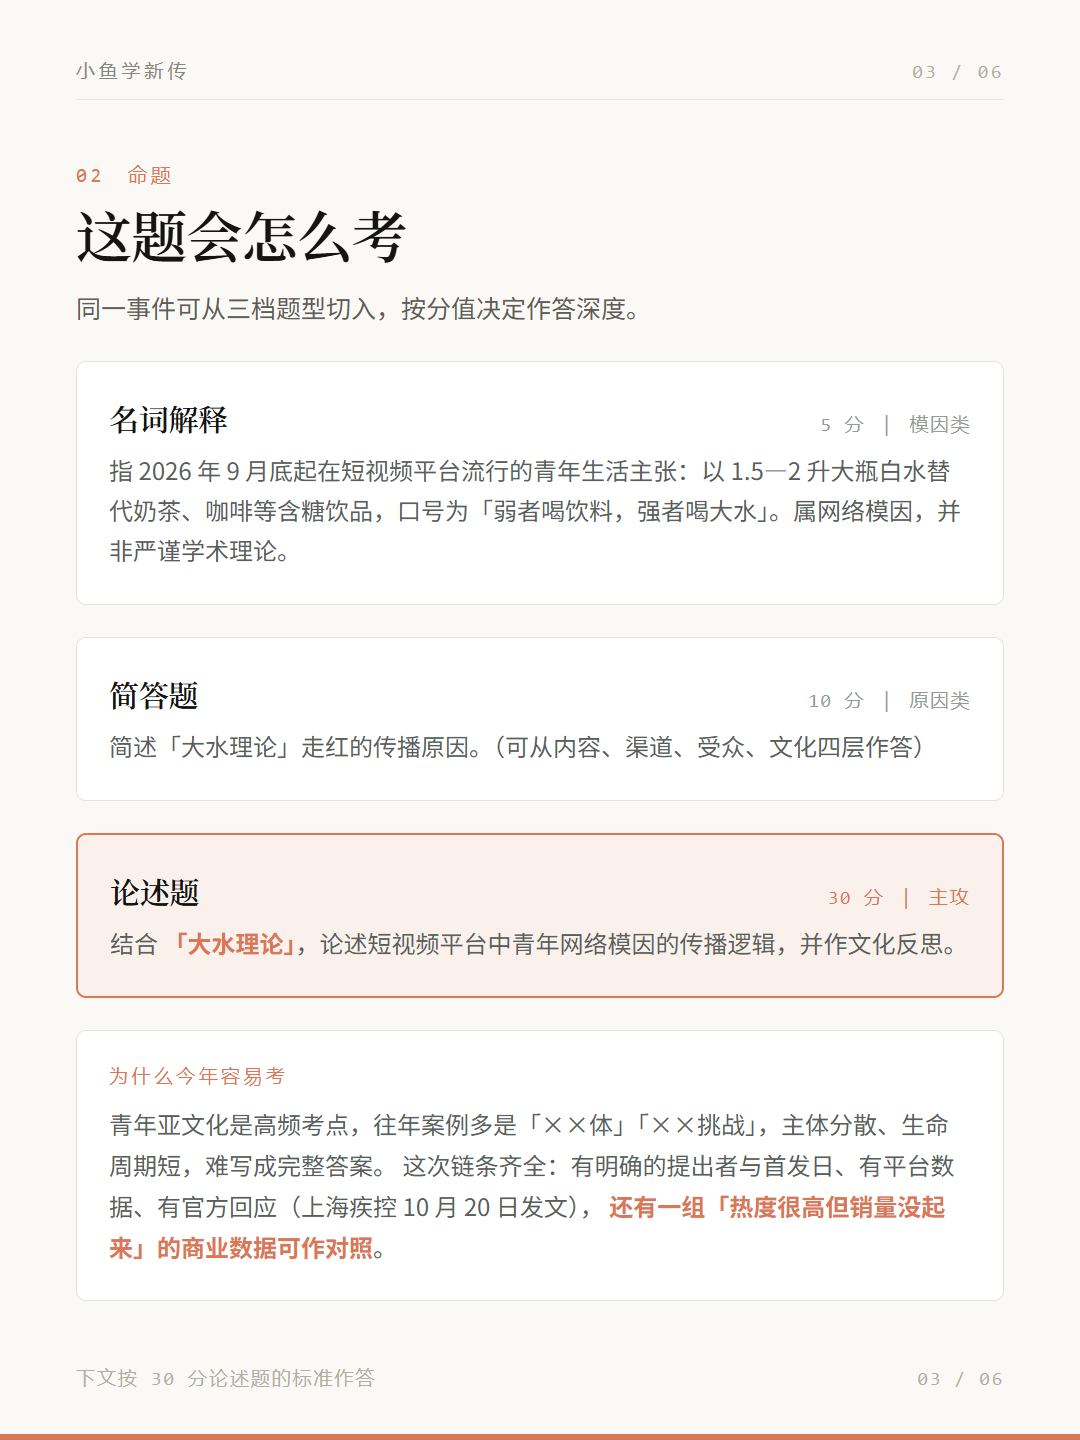
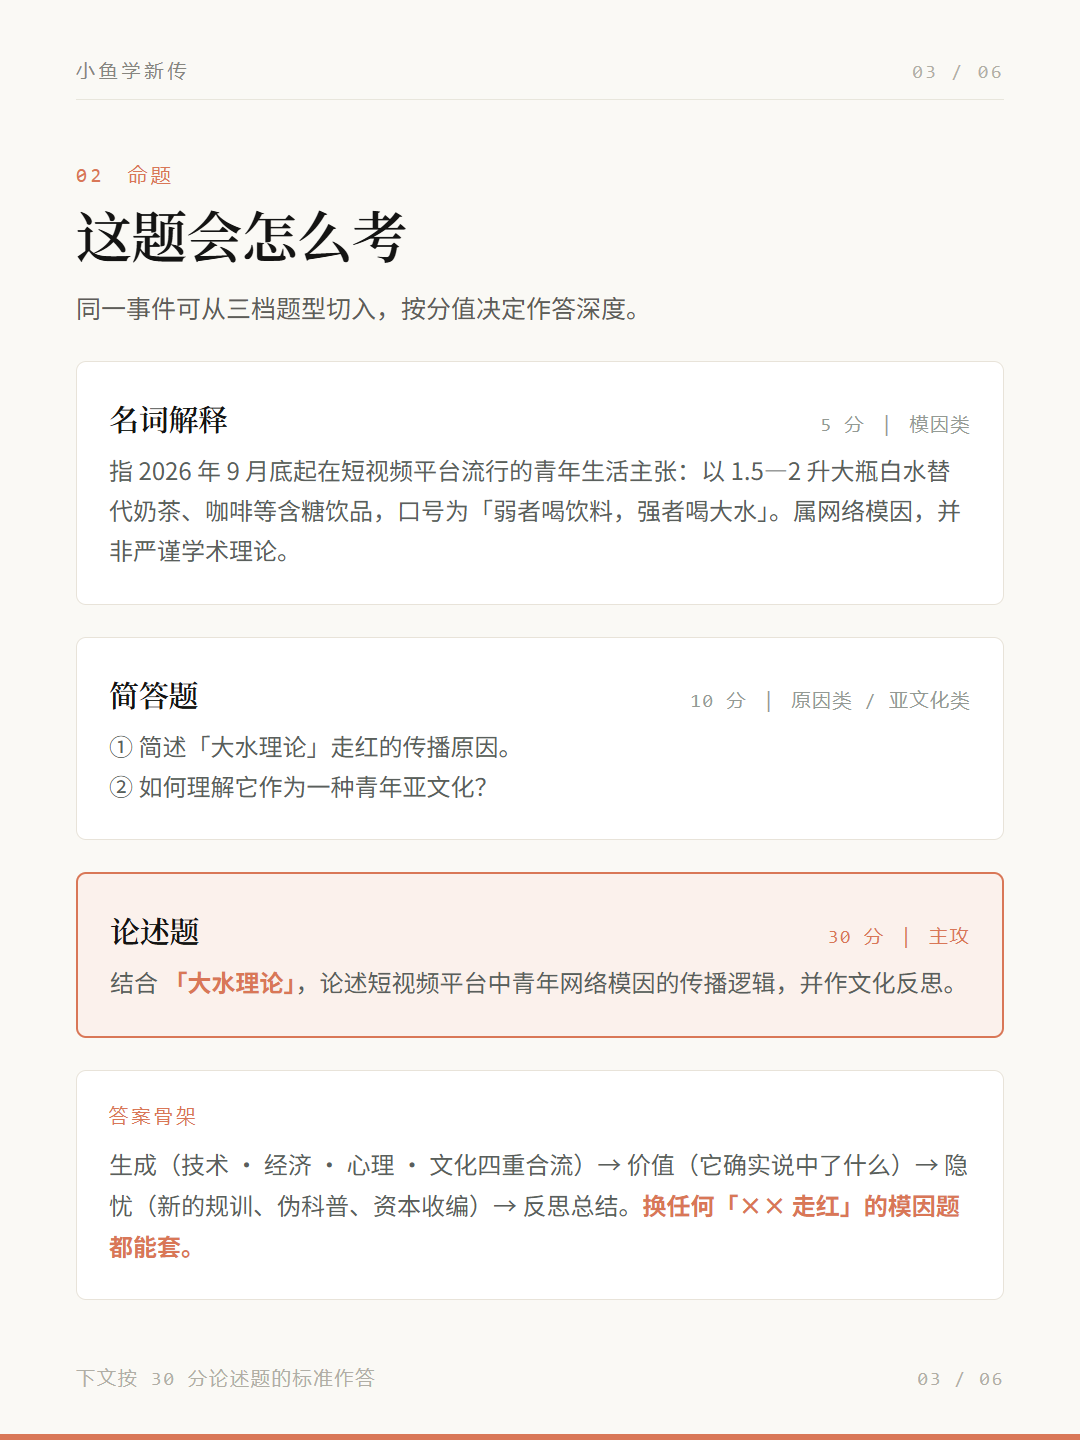
fix(kb): 37 大水理论答案主体改为四段骨架（生成/价值/隐忧/反思）
- P4-P6 重写：按用户给定文本的四段结构作答，删掉三个分论点的自我说明式话术
- P3 面板改为「答案骨架」，P6 速查表增至 5 行
- 笔记「新传视角解析」整节替换为「答题主体（四段骨架）」，争议焦点压缩为两处辨析
- 小红书文案与文案.md 对齐；六张图重渲替换，md5 核验一致
- 溢出余量 46/41/40/55/71/25，禁用句式 0、正文破折号 0

diff --git a/kb/新传热点事件解读/README.md b/kb/新传热点事件解读/README.md
@@ -48,7 +48,7 @@
 | 34 | [标价1980的镜片，批发价30](34-近视防控镜片.md) | 2026-10-18 | 柠檬市场（阿克洛夫）/ 框架理论（恩特曼） | ×6 |
 | 35 | [星巴克「消费入座」怎么考](35-星巴克消费入座.md) | 2026-10-22 | **答题导向体例**：第三空间（奥登伯格）/ 空间生产（列斐伏尔）/ 符号消费（鲍德里亚）/ 危机传播（库姆斯 SCCT） | ×6 |
 | 36 | [China Haul 为什么火了：空箱来，满箱走](36-ChinaHaul.md) | 2026-10-23 | **答题导向体例 02**：符号消费（鲍德里亚）/ 框架理论（恩特曼）/ 文化折扣（霍斯金斯）/ 参与式文化（詹金斯）/ 可信度（霍夫兰） | ×6 |
-| 37 | [大水理论（喝大水时代）怎么考：一瓶白水怎样被重新命名](37-大水理论.md) | 2026-09-30 | **答题导向体例 03**：模因理论（道金斯）/ 符号消费与再编码（鲍德里亚）/ 补偿性控制 / 亚文化与收编（伯明翰学派·赫伯迪格）/ 参与式文化（詹金斯） | ×6 |
+| 37 | [大水理论（喝大水时代）怎么考：一瓶白水怎样被重新命名](37-大水理论.md) | 2026-09-30 | **答题导向体例 03**：四段骨架（生成 → 价值 → 隐忧 → 反思）。生成按「技术 · 经济 · 心理 · 文化」四点：平台可供性（道金斯）/ 符号消费与再编码（鲍德里亚）/ 补偿性控制 / 戏仿式温和抵抗（伯明翰学派） | ×6 |
 
 > 本仓库从编号 12 起收录。更早的编号素材未归档入库。
 > **行文风格按用户逐期指定，不强制统一**：编号 20 用评论体（概念化冒号标题 + 具名学者与年份 + 结构层落点 + 金句收束）；编号 21 改为**论述题答题体**（理论名先行 + 具名学者 + 分层论证 + 论断收束，术语密度更高，可直接迁移到考场答案）；编号 22—25 沿用论述题答题体（编号 22 为框架理论 / 污名 / 道德恐慌 / 正当性叙事 / 平台治理；编号 23 为注意力经济 / 社交货币 / 供给端竞赛 / 流量驱动消费 / 健康风险传播；编号 24 为谣言公式 / 框架理论 / 后真相 / 事实核查 / 治理缝隙；编号 25 为符号消费 / 框架建构 / 弱者的武器 / 情绪劳动 / 数字围观；编号 26 为情感劳动 / 考核规训 / 框架建构 / 面子功夫 / 机闹治理；编号 27 为情感资本主义 / 拟像与超真实 / 语境坍塌 / 景观社会 / 平台化）。每期的风格设定都写在笔记 frontmatter 下方的引用行里。
